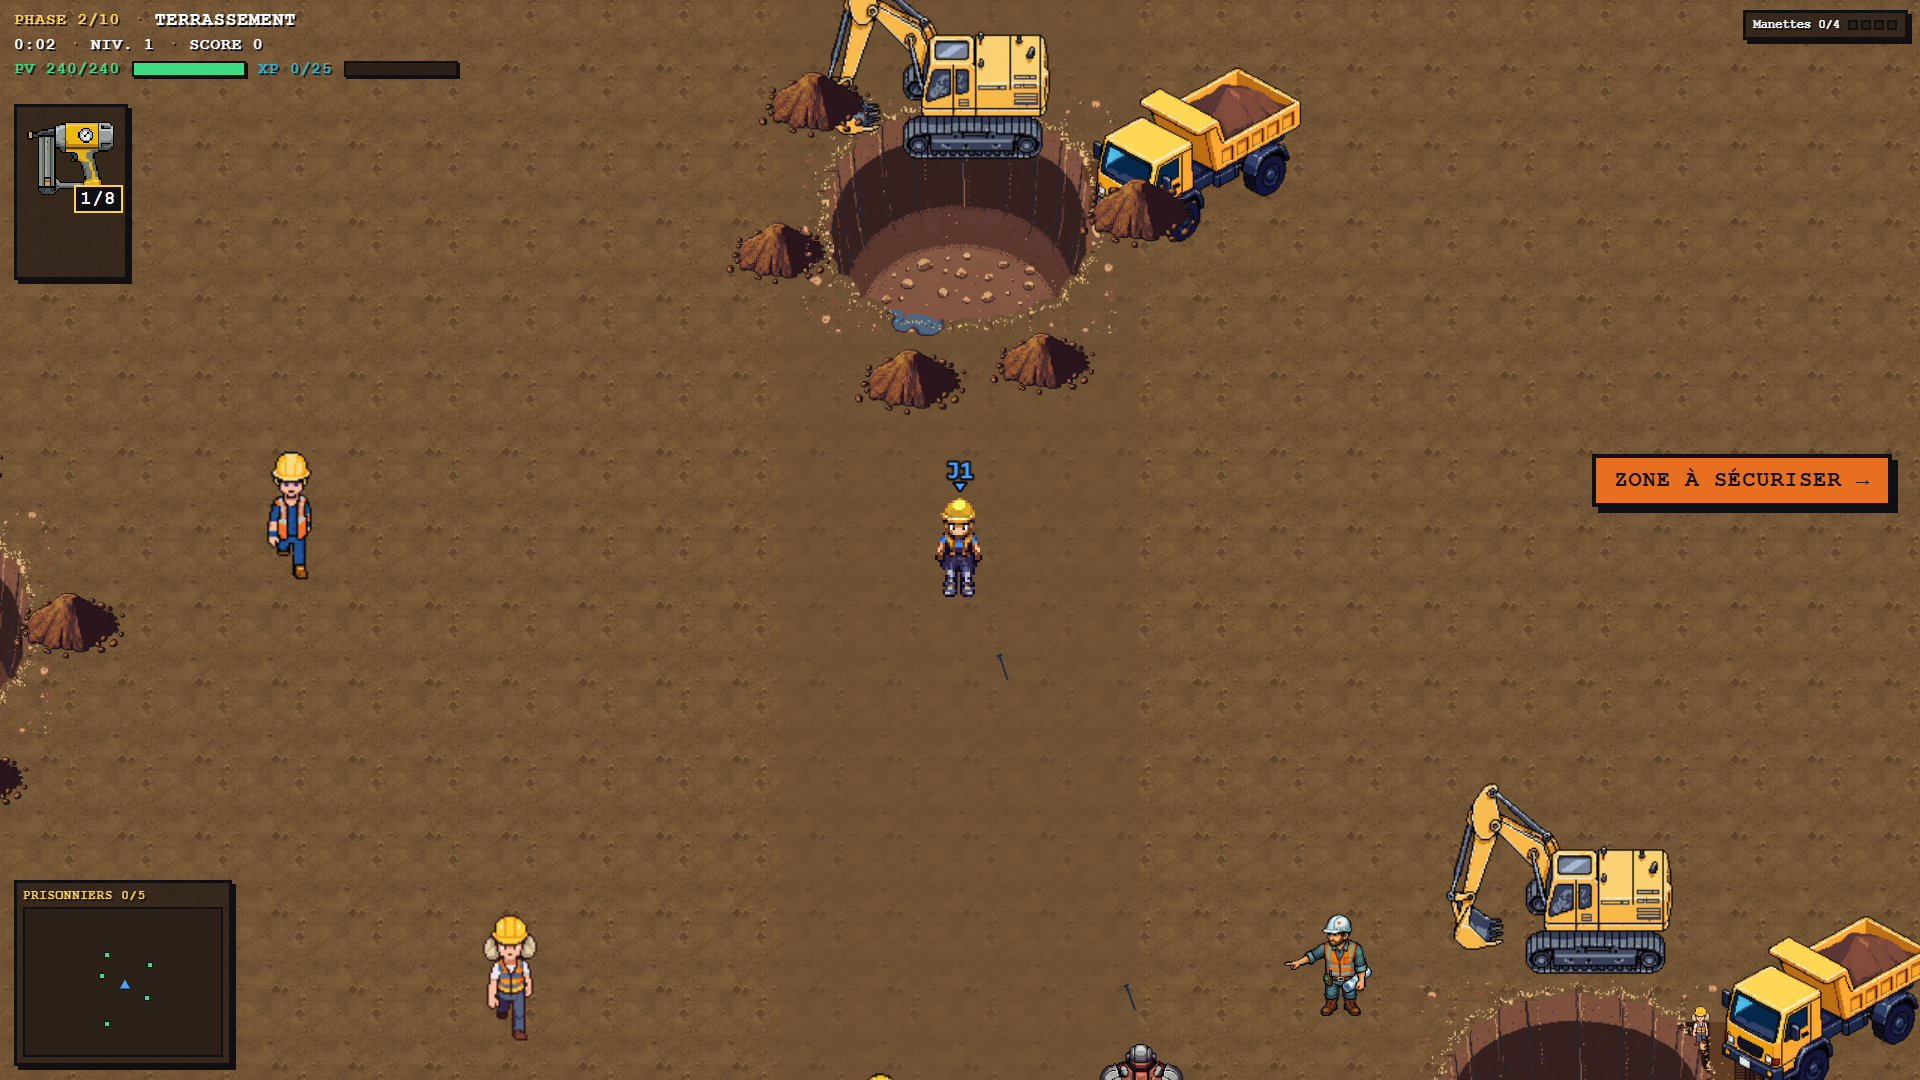
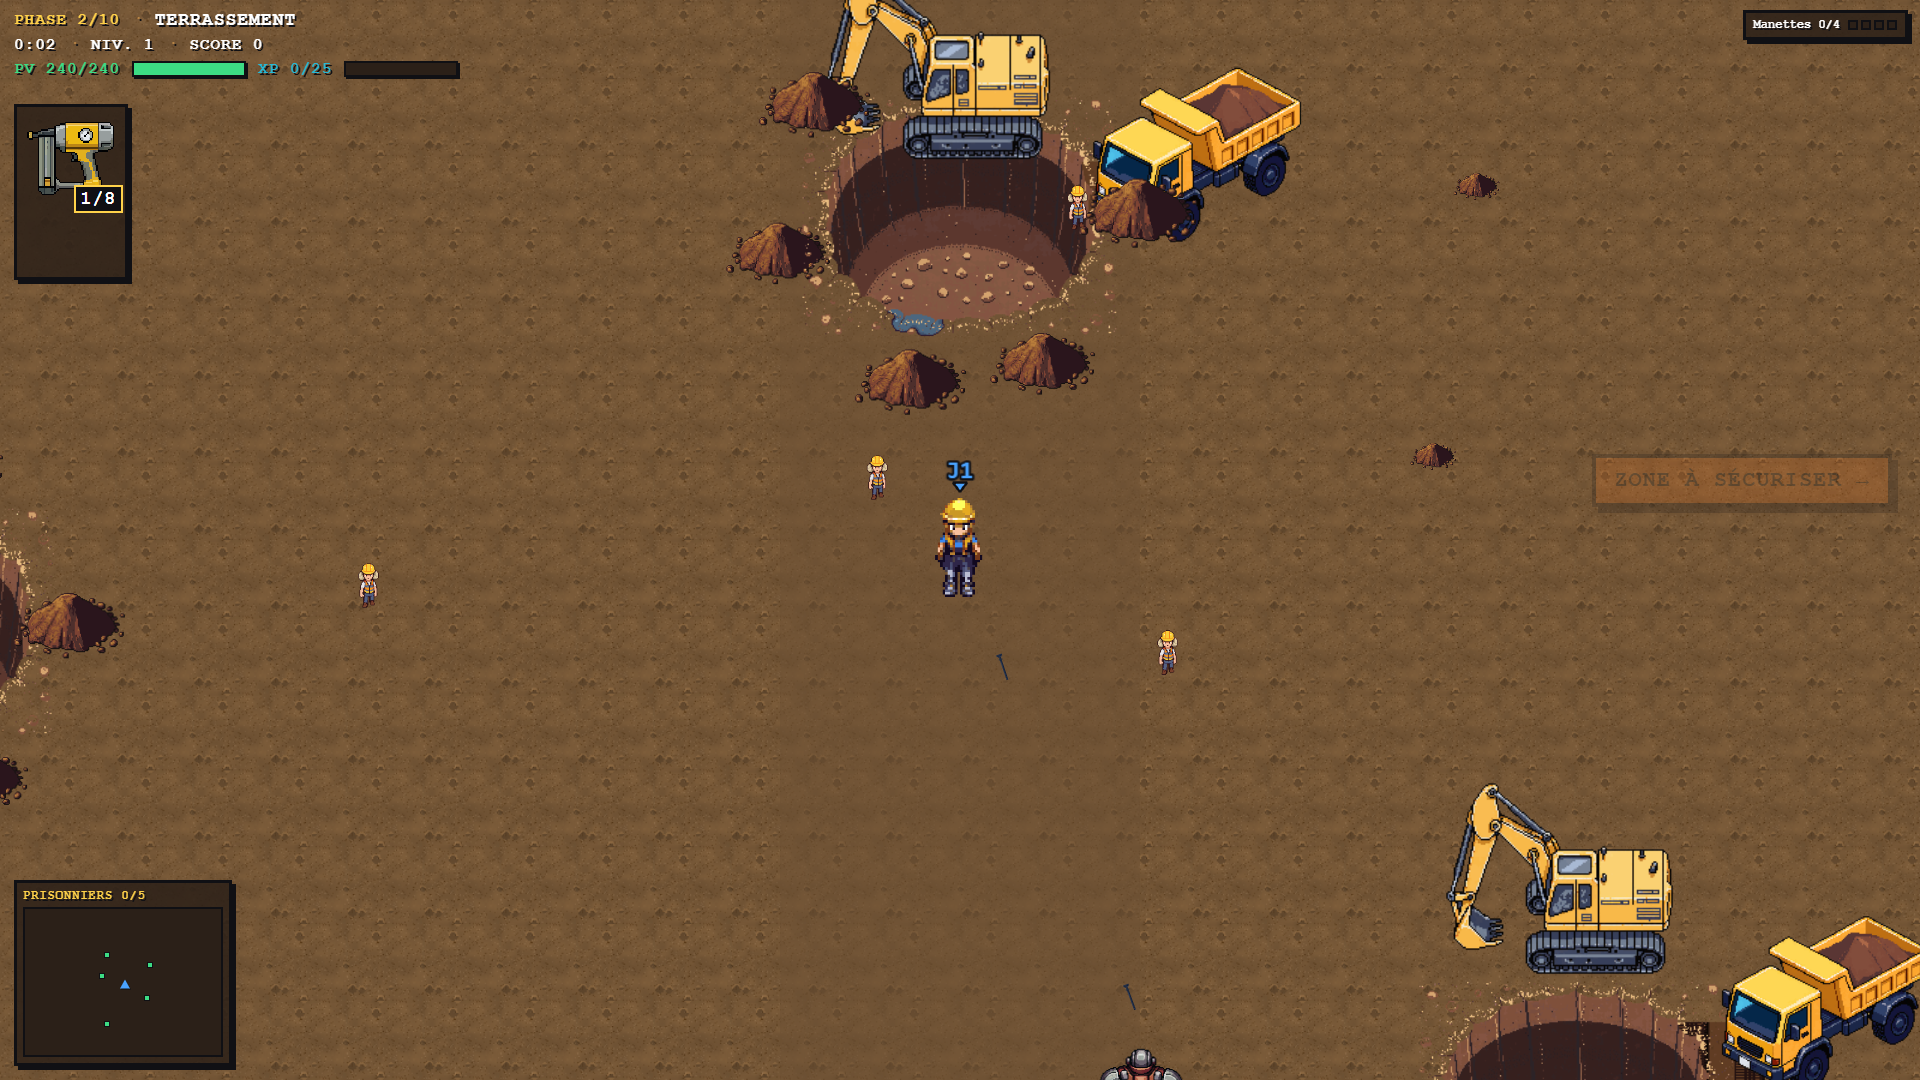
fix(cine): bilan PNJ + camions (golden terrassement)
Bilan : DEUX systèmes de PNJ tournaient en parallèle sur terrassement →
incohérence de tailles + mouvements « n'importe quoi » :
- ambientSprites (stage.ambient) : 4 PNJ errants Lissajous, échelles 0.71→1.61
  (« certains minuscules, certains géants ») + errance aléatoire.
- siteWorkers : porteurs/terrassiers à 0.55 (« tout petits »), terrassiers qui
  OSCILLENT sur place (« grands mais bougent à peine »).

Correctifs (render-only, sim diff 0) :
- GameScene : on N'AJOUTE PLUS les PNJ errants Lissajous sur un stage piloté par
  le plan de chantier (SITE_PROGRAMS) → une seule population, celle des ouvriers
  navetteurs. (Feuilles PNJ toujours préchargées : SiteWorkers les réutilise.)
- siteWorkers : échelle UNIQUE WORKER_SCALE=0.62 (fini le 0.55 vs 1.61) ;
  l'ancien « terrassier » qui oscillait sur place devient un NAVETTEUR qui va
  d'une fouille à la fouille la plus proche (trajet lisible, « d'une excavation
  à l'autre ») ; excavations élargies aux nouvelles scènes (spawn/dig_done).
- Camions : roulent désormais sur une voie le long du bord SUD de la fouille
  (au niveau de la clôture, via le rect de la zone signature du plan) au lieu de
  la bande sud du monde ; rebond de suspension (bob) pour donner le roulé.

Portes VERTES : tsc, lint, sim:check diff 0 (cibles VERTES), e2e siteWorkers
(10 ouvriers, 0 fuite) + golden-overview. Captures /_gate/ régénérées.

diff --git a/src/render/scenes/siteWorkers.ts b/src/render/scenes/siteWorkers.ts
@@ -24,6 +24,8 @@
 
 import Phaser from 'phaser'
 import { buildSiteLayout } from '@core/siteLayout'
+import { buildSitePlan } from '@core/sitePlan'
+import { SITE_PROGRAMS } from '@content/sitePrograms'
 import { commutePos, loadVisible, panicDecision, PANIC_R } from '@render/workerBehavior'
 import { dirRow, walkFrame } from '@render/sprites'
 import type { AppViewState } from '@/app/appState'
@@ -42,11 +44,22 @@ const PORTEUR_SPEED = 65
 /** Vitesse de navette des signaleurs (px/s). */
 const SIGNALEUR_SPEED = 80
 
-/** Vitesse d'oscillation d'un terrassier au travail (px/s — lent, sur place). */
-const TERRASSIER_SPEED = 34
+/** Vitesse d'un navetteur qui va d'une fouille à l'autre (px/s — marche franche). */
+const NAVETTEUR_SPEED = 74
 
 /** Vitesse d'un camion benne sur la piste (px/s — rapide). */
-const CAMION_SPEED = 155
+const CAMION_SPEED = 150
+
+/**
+ * Échelle UNIQUE de tous les ouvriers à pied (feuilles PNJ 256²).
+ * Les feuilles d'ambiance avaient des échelles disparates (0.71 → 1.61) → PNJ
+ * « certains minuscules, certains géants ». Ici : une seule taille humaine,
+ * cohérente avec le joueur (~99 px).
+ */
+const WORKER_SCALE = 0.62
+
+/** Amplitude du rebond vertical d'un camion en roulant (px, suspension). */
+const CAMION_BOB_PX = 4
 
 /** Vitesse de fuite en panique (px/s — multiplicateur sur le vecteur de fuite). */
 const FLEE_SPEED_PX_PER_MS = 0.12
@@ -77,11 +90,11 @@ interface WorkerJob {
    * Rôle du job :
    *  - porteur    : évacue la terre fouille → déblais (charge visible à l'aller)
    *  - signaleur  : flagman à l'entrée (patrouille route)
-   *  - terrassier : travaille EN PLACE au bord d'un trou (petite oscillation)
+   *  - navetteur  : va D'UNE FOUILLE À L'AUTRE (marche franche, trajet visible)
    *  - camion     : benne qui roule sur la piste (évacuation) — gros sprite, rapide,
    *                 orienté par flipX, ne panique pas.
    */
-  role: 'porteur' | 'signaleur' | 'terrassier' | 'camion'
+  role: 'porteur' | 'signaleur' | 'navetteur' | 'camion'
   /** Point de départ A (monde). */
   ax: number
   ay: number
@@ -160,7 +173,11 @@ export class SiteWorkers {
     // Les prefabs « plan de chantier » sont inclus : le front de creusement joue
     // le rôle d'excavation, la rangée de déblais celui de spoil.
     const excavations = layout.clusters.filter(
-      (c) => c.defId === 'cluster_excavation' || c.defId === 'scene_dig_active'
+      (c) =>
+        c.defId === 'cluster_excavation' ||
+        c.defId === 'scene_dig_active' ||
+        c.defId === 'scene_dig_active_spawn' ||
+        c.defId === 'scene_dig_done'
     )
     const spoils = layout.clusters.filter(
       (c) => c.defId === 'cluster_spoil' || c.defId === 'scene_spoil' || c.defId === 'scene_stock'
@@ -205,45 +222,88 @@ export class SiteWorkers {
       jobIdx++
     }
 
-    // Jobs « terrassier » : un ouvrier travaille EN PLACE au bord de chaque
-    // front de creusement (petite oscillation = coups de pelle), pas d'errance.
-    for (const exc of excavations) {
+    // Jobs « navetteur » : un ouvrier va D'UNE FOUILLE À LA SUIVANTE (marche
+    // franche, trajet lisible) — remplace l'ancien terrassier qui oscillait sur
+    // place (« grand mais bouge à peine »). On apparie chaque fouille à la
+    // fouille la PLUS PROCHE (autre qu'elle-même) → va-et-vient entre chantiers.
+    for (let i = 0; i < excavations.length; i++) {
+      const from = excavations[i]
+      if (from === undefined) {
+        continue
+      }
+      // Fouille cible = la plus proche différente de `from`.
+      let to = undefined as (typeof excavations)[number] | undefined
+      let best = Infinity
+      for (let k = 0; k < excavations.length; k++) {
+        if (k === i) {
+          continue
+        }
+        const cand = excavations[k]
+        if (cand === undefined) {
+          continue
+        }
+        const d = Math.hypot(cand.x - from.x, cand.y - from.y)
+        if (d < best) {
+          best = d
+          to = cand
+        }
+      }
+      if (to === undefined) {
+        continue
+      }
       const key = this._resolveKey('porteur', npcKeys)
       if (key === null) {
         break
       }
       this.jobs.push({
         textureKey: key,
-        role: 'terrassier',
-        ax: exc.x - 55,
-        ay: exc.y + 130,
-        bx: exc.x + 55,
-        by: exc.y + 130,
-        speed: TERRASSIER_SPEED,
-        midX: exc.x,
-        midY: exc.y + 130,
+        role: 'navetteur',
+        ax: from.x,
+        ay: from.y + 120,
+        bx: to.x,
+        by: to.y + 120,
+        speed: NAVETTEUR_SPEED,
+        midX: (from.x + to.x) / 2,
+        midY: (from.y + to.y) / 2 + 120,
         phaseOffsetMs: jobIdx * PHASE_OFFSET_MS
       })
       jobIdx++
     }
 
-    // Jobs « camion » : bennes qui roulent sur la PISTE horizontale du sud
-    // (évacuation de la terre). Orientation gérée par flipX (asset de profil).
-    if (this.scene.textures.exists('prop_s2_truck') && routeClusters.length > 0) {
-      const routeY = routeClusters[0]?.y ?? worldH - 350
-      const leftX = worldW * 0.18
-      const rightX = worldW * 0.82
+    // Jobs « camion » : bennes qui roulent sur la PISTE le long du bord SUD de la
+    // zone de travail (au niveau de la clôture, pas relégués tout en bas du monde).
+    // On lit le rect de la zone signature dans le plan pour caler la voie.
+    if (this.scene.textures.exists('prop_s2_truck')) {
+      const plan = buildSitePlan(seed, worldW, worldH, stageId)
+      const sigId = SITE_PROGRAMS[stageId]?.zones.find((z) => z.signature === true)?.id
+      const sigZone = plan?.zones.find((z) => z.id === sigId)
+      let laneY: number
+      let leftX: number
+      let rightX: number
+      if (sigZone !== undefined) {
+        // Juste au sud de la clôture sud de la fouille (piste de roulage interne).
+        laneY = sigZone.cy + sigZone.halfH + 150
+        leftX = sigZone.cx - sigZone.halfW + 120
+        rightX = sigZone.cx + sigZone.halfW - 120
+      } else {
+        // Repli (stage sans zone signature) : bande sud du monde.
+        const routeY = routeClusters[0]?.y ?? worldH - 350
+        laneY = routeY - 40
+        leftX = worldW * 0.18
+        rightX = worldW * 0.82
+      }
       for (let t = 0; t < 3; t++) {
+        // 3 camions décalés en phase → un flux continu le long de la piste.
         this.jobs.push({
           textureKey: 'prop_s2_truck',
           role: 'camion',
           ax: leftX,
-          ay: routeY - 40,
+          ay: laneY,
           bx: rightX,
-          by: routeY - 40,
+          by: laneY,
           speed: CAMION_SPEED,
           midX: (leftX + rightX) / 2,
-          midY: routeY - 40,
+          midY: laneY,
           phaseOffsetMs: t * 5200
         })
         jobIdx++
@@ -317,9 +377,11 @@ export class SiteWorkers {
       const pos = commutePos(job.ax, job.ay, job.bx, job.by, tMs, job.speed)
 
       // Camion : roule sur la piste, ne panique pas, orienté par flipX
-      // (asset de profil — R-I : on respecte le sens de circulation).
+      // (asset de profil — R-I : on respecte le sens de circulation). Un léger
+      // rebond vertical (suspension) donne le sentiment qu'il ROULE.
       if (job.role === 'camion') {
-        aw.sprite.setPosition(pos.x, pos.y)
+        const bob = Math.sin(tMs / 150) * CAMION_BOB_PX
+        aw.sprite.setPosition(pos.x, pos.y + bob)
         const goingRight = pos.leg === 'ab'
         aw.sprite.setFlipX(!goingRight)
         continue
@@ -475,7 +537,7 @@ export class SiteWorkers {
     if (hasTexture) {
       sprite = this.scene.add
         .sprite(x, y, job.textureKey)
-        .setScale(isCamion ? 1.0 : 0.55)
+        .setScale(isCamion ? 1.0 : WORKER_SCALE)
         .setDepth(DEPTH_WORKER)
     } else {
       // Repli : cercle vert clair (non-menaçant, distinct des ennemis rouges).

diff --git a/src/render/scenes/GameScene.ts b/src/render/scenes/GameScene.ts
@@ -444,7 +444,13 @@ export class GameScene extends Phaser.Scene {
     // autour d'angles dérivés (+ 40° par PNJ) pour rester dans le même secteur.
     const AMB_DIST_MIN = 420
     const AMB_DIST_MAX = 520
-    for (const [npcIdx, amb] of (this.stage.ambient ?? []).entries()) {
+    // Les stages pilotés par le PLAN de chantier (sitePrograms) tirent leur vie
+    // des ouvriers navetteurs (SiteWorkers, purposeful) : on N'AJOUTE PAS en plus
+    // les PNJ errants Lissajous — c'était la double-population incohérente
+    // (tailles disparates + errance « dans tous les sens »). Les feuilles PNJ
+    // restent chargées (preload) car SiteWorkers les réutilise.
+    const ambientList = SITE_PROGRAMS[this.loadedStageId] !== undefined ? [] : (this.stage.ambient ?? [])
+    for (const [npcIdx, amb] of ambientList.entries()) {
       if (!this.textures.exists(amb.key)) { continue }
       // Rayon forfaitaire du PNJ : demi-frame compact (64 px) × scale.
       const ambRadius = Math.round(amb.scale * 64)